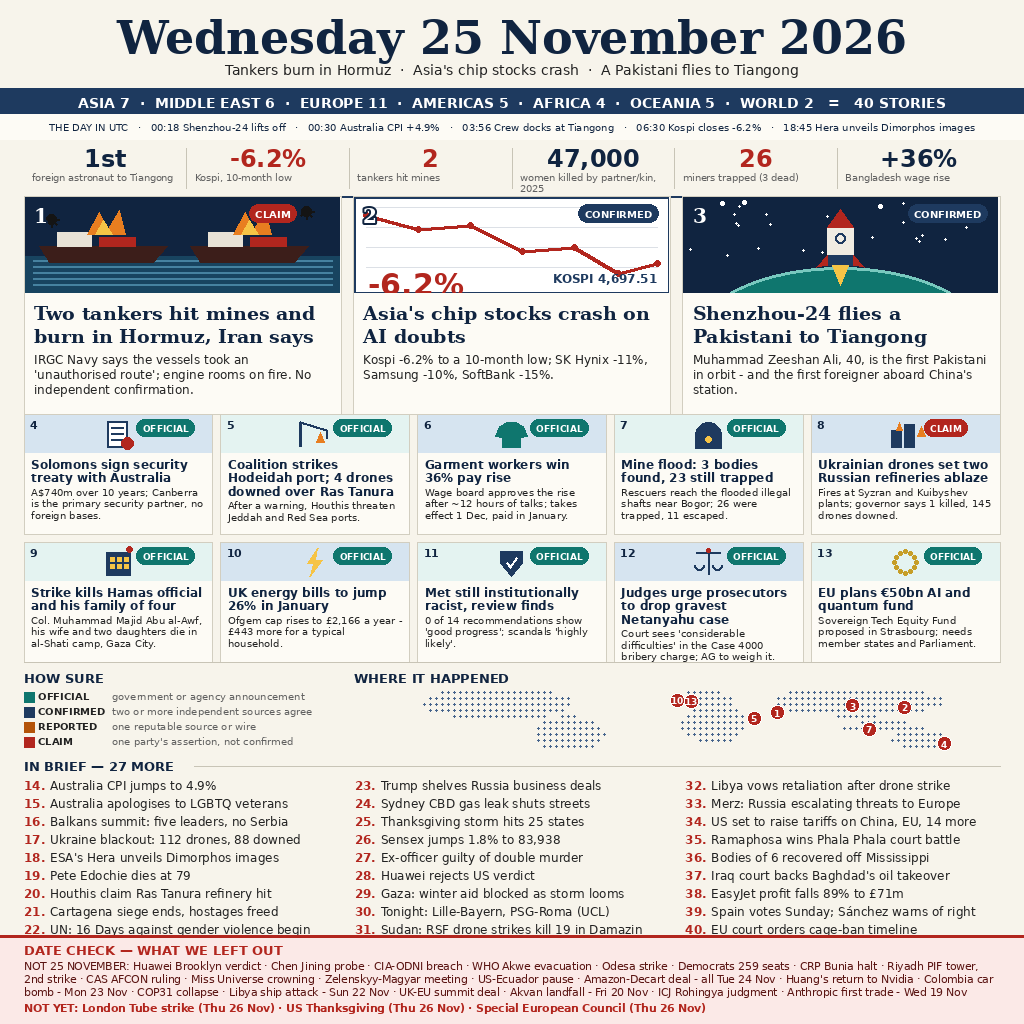
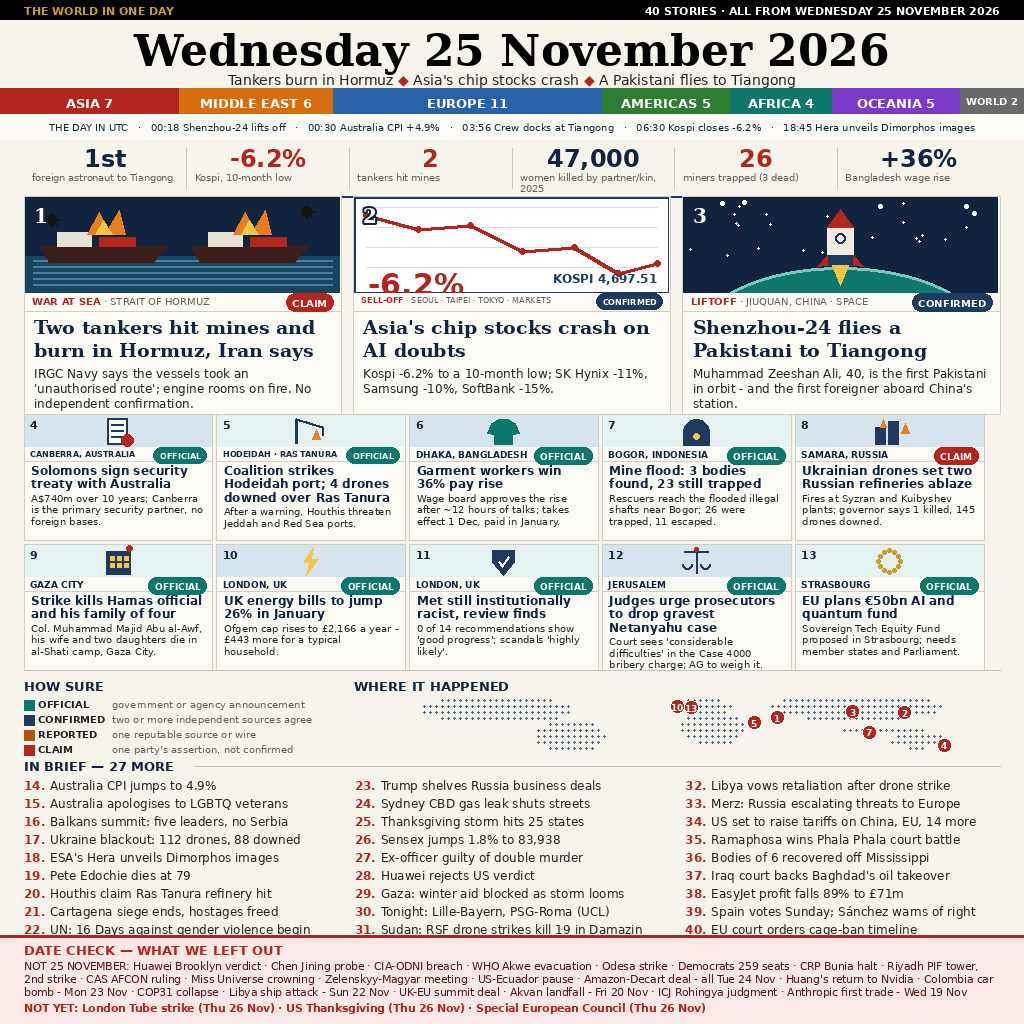
v2: top-1 tweaks - black top band + masthead, segmented region strip, kicker strips with tag pills

diff --git a/build_page.py b/build_page.py
@@ -6,6 +6,9 @@ numbers -> 3 heroes -> grid -> HOW SURE legend -> map -> ALSO -> DATE CHECK)
 with the lead order swapped (Hormuz first) and top-1's date errors fixed:
 Shenzhou liftoff 00:18, no Tube strike, no Akwe grid item,
 Bangladesh as +36% only.
+Tweaks vs v1: black top band + black masthead with red-diamond subline,
+segmented colour region strip, kicker/dateline strips below hero+grid
+illustrations carrying the tag pills (pills moved off the artwork).
 """
 import os
 from PIL import Image, ImageDraw, ImageFont
@@ -61,6 +64,35 @@ TAG_COLOR = {
 # ---------------------------------------------------------------- data ----
 REGIONS = [("ASIA", 7), ("MIDDLE EAST", 6), ("EUROPE", 11), ("AMERICAS", 5),
            ("AFRICA", 4), ("OCEANIA", 5), ("WORLD", 2)]
+
+REGION_COLORS = {
+    "ASIA": (178, 38, 30),
+    "MIDDLE EAST": (214, 110, 16),
+    "EUROPE": (41, 98, 168),
+    "AMERICAS": (46, 125, 50),
+    "AFRICA": (15, 118, 110),
+    "OCEANIA": (124, 58, 200),
+    "WORLD": (105, 105, 105),
+}
+
+HERO_KICKERS = [
+    "WAR AT SEA \u00b7 STRAIT OF HORMUZ",
+    "SELL-OFF \u00b7 SEOUL \u00b7 TAIPEI \u00b7 TOKYO \u00b7 MARKETS",
+    "LIFTOFF \u00b7 JIUQUAN, CHINA \u00b7 SPACE",
+]
+
+GRID_KICKERS = [
+    "CANBERRA, AUSTRALIA",
+    "HODEIDAH \u00b7 RAS TANURA",
+    "DHAKA, BANGLADESH",
+    "BOGOR, INDONESIA",
+    "SAMARA, RUSSIA",
+    "GAZA CITY",
+    "LONDON, UK",
+    "LONDON, UK",
+    "JERUSALEM",
+    "STRASBOURG",
+]
 
 UTC_ITEMS = [
     ("00:18", "Shenzhou-24 lifts off"),
@@ -224,6 +256,29 @@ def chip(draw, x, y, text, size=10):
                            fill=TAG_COLOR[text])
     draw.text((x + 6, y + 4), text, font=f, fill=(255, 255, 255))
     return w
+
+
+def kicker(draw, x, y, w, text, tag, base_size=10, min_size=7.5,
+           first_red=False):
+    """Dateline strip: text left, tag pill at the right end; shrinks to fit."""
+    size = base_size
+    while size > min_size:
+        f = sans_b(int(round(size)))
+        pill_w = tw(draw, tag, sans_b(int(round(size)))) + 12
+        if tw(draw, text, f) + 6 + pill_w <= w:
+            break
+        size -= 0.5
+    ps = int(round(size))
+    f = sans_b(ps)
+    if first_red and " \u00b7 " in text:
+        first, rest = text.split(" \u00b7 ", 1)
+        draw.text((x, y + 2), first, font=f, fill=RUST)
+        fx = x + tw(draw, first, f)
+        draw.text((fx, y + 2), " \u00b7 " + rest, font=sans(ps), fill=GREY)
+    else:
+        draw.text((x, y + 2), text, font=f, fill=NAVY_D)
+    pill_w = tw(draw, tag, sans_b(ps)) + 12
+    chip(draw, x + w - pill_w, y, tag, size=ps)
 
 
 def fit_font(draw, text, start, min_size, max_w, bold=True, serif_font=False):
@@ -434,26 +489,42 @@ def draw_map(draw, x, y, w, h):
 
 # ----------------------------------------------------------- sections -----
 def section_masthead(draw):
-    draw.rectangle([0, 0, W, 88], fill=CREAM)
+    # black top band, like top 1
+    draw.rectangle([0, 0, W, 20], fill=(0, 0, 0))
+    fb = sans_b(11)
+    draw.text((M, 4), "THE WORLD IN ONE DAY", font=fb, fill=GOLD)
+    right = "40 STORIES \u00b7 ALL FROM WEDNESDAY 25 NOVEMBER 2026"
+    draw.text((W - M - tw(draw, right, fb), 4), right, font=fb,
+              fill=(255, 255, 255))
+    draw.rectangle([0, 20, W, 88], fill=CREAM)
     title = "Wednesday 25 November 2026"
-    f = fit_font(draw, title, 46, 30, CW, bold=True, serif_font=True)
-    draw.text(((W - tw(draw, title, f)) / 2, 10), title, font=f, fill=NAVY_D)
-    sub = ("Tankers burn in Hormuz  \u00b7  Asia's chip stocks crash  "
-           "\u00b7  A Pakistani flies to Tiangong")
+    f = fit_font(draw, title, 44, 30, CW, bold=True, serif_font=True)
+    draw.text(((W - tw(draw, title, f)) / 2, 24), title, font=f, fill=(0, 0, 0))
+    parts = ["Tankers burn in Hormuz", "Asia's chip stocks crash",
+             "A Pakistani flies to Tiangong"]
     fs = sans(14)
-    draw.text(((W - tw(draw, sub, fs)) / 2, 62), sub, font=fs, fill=INK)
+    dia = " \u25c6 "
+    total = sum(tw(draw, p, fs) for p in parts) + 2 * tw(draw, dia, fs)
+    x = (W - total) / 2
+    for i, p in enumerate(parts):
+        draw.text((x, 72), p, font=fs, fill=INK)
+        x += tw(draw, p, fs)
+        if i < 2:
+            draw.text((x, 72), dia, font=fs, fill=RUST)
+            x += tw(draw, dia, fs)
     draw.line([M, 88, W - M, 88], fill=NAVY, width=2)
 
 
 def section_regions(draw):
-    draw.rectangle([0, 88, W, 114], fill=NAVY)
-    parts = []
-    for name, n in REGIONS:
-        parts.append("%s %d" % (name, n))
-    text = "  \u00b7  ".join(parts) + "   =   40 STORIES"
-    f = fit_font(draw, text, 14, 10, CW, bold=True)
-    draw.text(((W - tw(draw, text, f)) / 2, 95), text, font=f,
-              fill=(255, 255, 255))
+    widths = [179, 154, 269, 128, 102, 128, 64]
+    x = 0
+    for (name, n), wseg in zip(REGIONS, widths):
+        draw.rectangle([x, 88, x + wseg, 114], fill=REGION_COLORS[name])
+        text = "%s %d" % (name, n)
+        f = fit_font(draw, text, 13, 9, wseg - 8, bold=True)
+        draw.text((x + (wseg - tw(draw, text, f)) / 2, 95), text, font=f,
+                  fill=(255, 255, 255))
+        x += wseg
 
 
 def section_utc(draw):
@@ -499,8 +570,13 @@ def section_heroes(draw, img):
         draw.text((x + 10, y0 + 8), str(hero["n"]), font=serif_b(20),
                   fill=(255, 255, 255),
                   stroke_width=2, stroke_fill=NAVY_D)
-        chip(draw, x + col_w - 92, y0 + 8, hero["tag"], size=10)
-        ty = y0 + ih + 10
+        # kicker strip below the illustration, tag pill at its right end
+        ky = y0 + ih + 1
+        draw.line([x + 1, ky + 18, x + col_w - 1, ky + 18],
+                  fill=(210, 206, 192), width=1)
+        kicker(draw, x + 8, ky, col_w - 16, HERO_KICKERS[i],
+               hero["tag"], base_size=10, min_size=8, first_red=True)
+        ty = y0 + ih + 24
         ty = draw_wrapped(draw, hero["head"], serif_b(19), x + 10, ty,
                           col_w - 20, NAVY_D, leading=23)
         draw_wrapped(draw, hero["deck"], sans(12), x + 10, ty + 4,
@@ -510,28 +586,33 @@ def section_heroes(draw, img):
 def section_grid(draw):
     y0 = 414
     col_w = (CW - 4 * 8) / 5.0
-    row_h, gap = 120, 8
+    row_h, gap = 126, 4
     for idx, card in enumerate(GRID):
         r, c = divmod(idx, 5)
         x = M + c * (col_w + gap)
         y = y0 + r * (row_h + gap)
         draw.rectangle([x, y, x + col_w, y + row_h], fill=PAPER,
                        outline=(210, 206, 192), width=1)
-        ih = 38
+        ih = 32
         draw.rectangle([x + 1, y + 1, x + col_w - 1, y + ih],
                        fill=SKY if idx % 2 == 0 else TEAL_L)
         illu_icon(draw, card["illu"], x, y + 1, col_w, ih)
         draw.text((x + 6, y + 4), str(card["n"]), font=sans_b(11),
                   fill=NAVY_D)
-        chip(draw, x + col_w - 76, y + 5, card["tag"], size=9)
-        ty = draw_wrapped(draw, card["head"], sans_b(12), x + 7, y + ih + 5,
+        # kicker strip below the icon strip, tag pill at its right end
+        ky = y + ih + 1
+        draw.line([x + 1, ky + 14, x + col_w - 1, ky + 14],
+                  fill=(210, 206, 192), width=1)
+        kicker(draw, x + 6, ky, col_w - 12, GRID_KICKERS[idx],
+               card["tag"], base_size=9, min_size=7.5, first_red=False)
+        ty = draw_wrapped(draw, card["head"], sans_b(12), x + 7, y + ih + 17,
                           col_w - 14, NAVY_D, leading=13.5)
         draw_wrapped(draw, card["deck"], sans(10), x + 7, ty + 2,
                      col_w - 14, INK, leading=11.5)
 
 
 def section_legend_map(draw):
-    y0, y1 = 662, 758
+    y0, y1 = 670, 758
     draw.rectangle([0, y0, W, y1], fill=CREAM)
     draw.line([M, y0, W - M, y0], fill=(200, 196, 182), width=1)
     draw.text((M, y0 + 8), "HOW SURE", font=sans_b(13), fill=NAVY_D)
